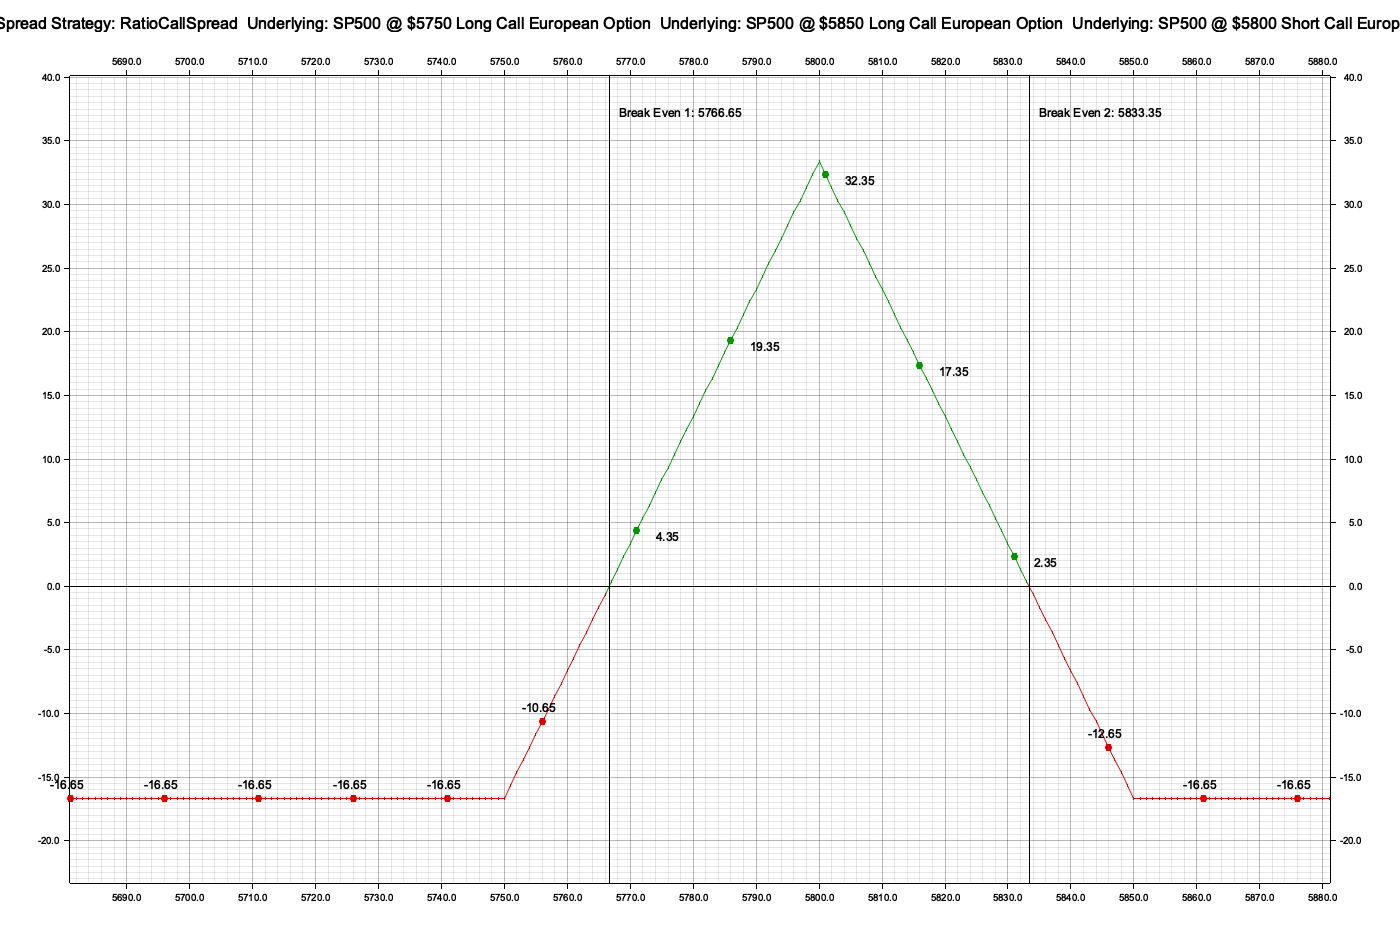
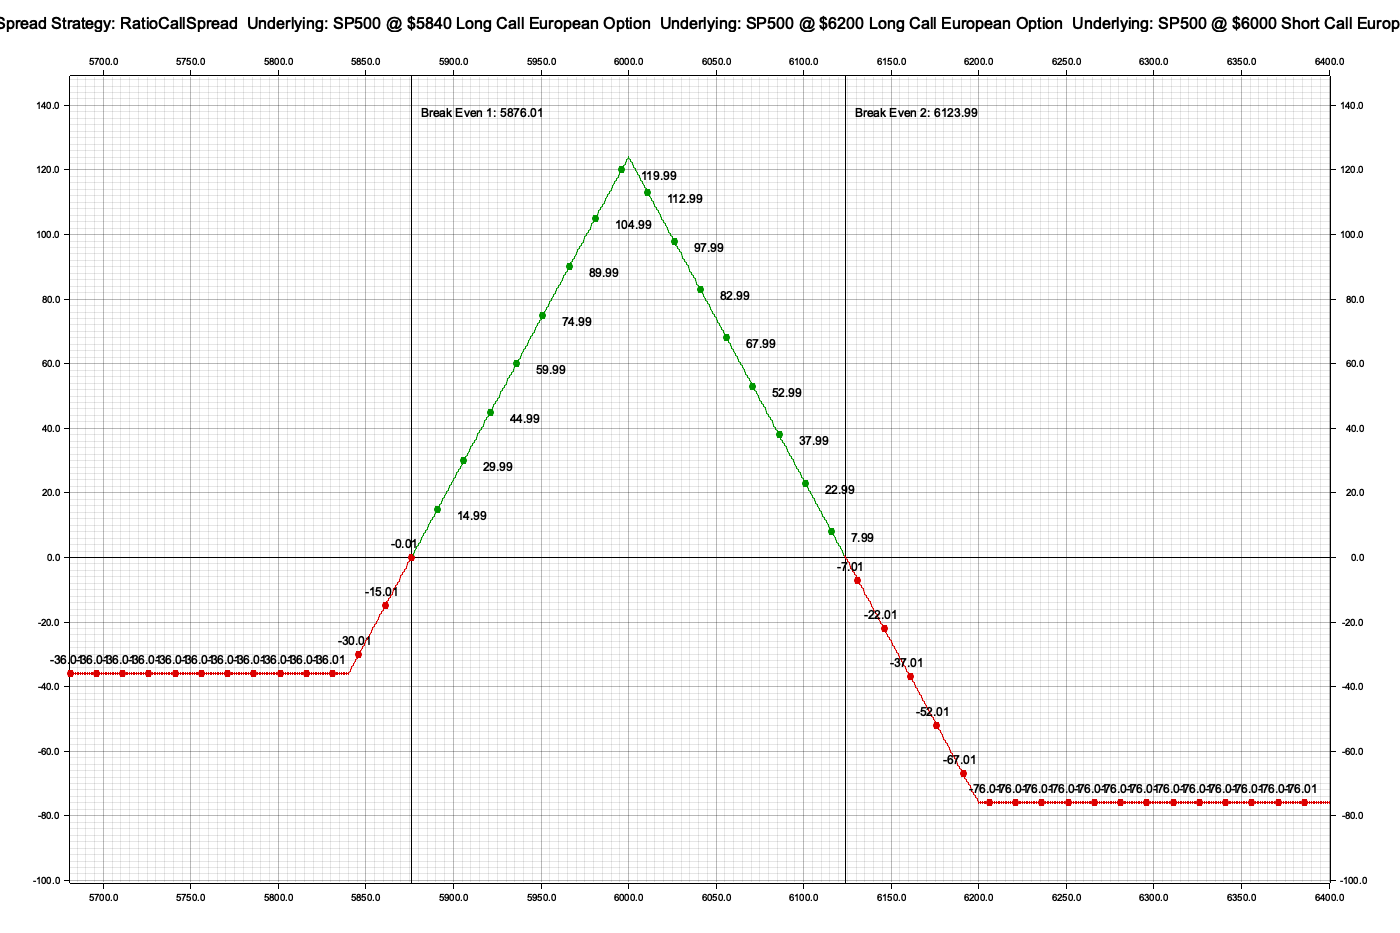
Add examples for optimal ratio and area in ratio call spread
Introduced new examples to find the best ratio and area for ratio call spreads. Added corresponding profit/loss charts for better visualization. This enhances the ability to evaluate strategies effectively.

Changed region(s): [[0.0307, 0.0622, 0.9829, 0.9636], [0.5836, 0.0, 0.6143, 0.0311]]

diff --git a/examples/strategy_ratio_call_spread_best_ratio.rs b/examples/strategy_ratio_call_spread_best_ratio.rs
@@ -1,0 +1,73 @@
+/******************************************************************************
+   Author: Joaquín Béjar García
+   Email: jb@taunais.com
+   Date: 25/9/24
+******************************************************************************/
+use optionstratlib::constants::ZERO;
+use optionstratlib::model::chain::OptionChain;
+use optionstratlib::model::types::ExpirationDate;
+use optionstratlib::strategies::base::Strategies;
+use optionstratlib::strategies::ratio_call_spread::RatioCallSpread;
+use optionstratlib::strategies::utils::FindOptimalSide;
+use optionstratlib::utils::logger::setup_logger;
+use optionstratlib::visualization::utils::Graph;
+use std::error::Error;
+use tracing::{debug, info};
+
+fn main() -> Result<(), Box<dyn Error>> {
+    setup_logger();
+    let option_chain =
+        OptionChain::load_from_json("./examples/Chains/SP500-18-oct-2024-5781.88.json")?;
+    let underlying_price = option_chain.underlying_price;
+    let mut strategy = RatioCallSpread::new(
+        "".to_string(),
+        underlying_price, // underlying_price
+        ZERO,             // long_strike_itm
+        ZERO,             // long_strike_otm
+        ZERO,             // short_strike
+        ExpirationDate::Days(2.0),
+        ZERO, // implied_volatility
+        0.05, // risk_free_rate
+        ZERO, // dividend_yield
+        1,    // long quantity
+        2,    // short_quantity
+        ZERO, // premium_long_itm
+        ZERO, // premium_long_otm
+        ZERO, // premium_short
+        0.78, // open_fee_long
+        0.78, // close_fee_long
+        0.73, // close_fee_short
+        0.73, // close_fee_short
+    );
+
+    strategy.best_ratio(&option_chain, FindOptimalSide::Upper);
+    let price_range = strategy.best_range_to_show(1.0).unwrap();
+    let range = strategy.break_even_points[1] - strategy.break_even_points[0];
+    info!("Title: {}", strategy.title());
+    info!("Break Even Points: {:?}", strategy.break_even_points);
+    info!(
+        "Net Premium Received: ${:.2}",
+        strategy.net_premium_received()
+    );
+    info!("Max Profit: ${:.2}", strategy.max_profit());
+    info!("Max Loss: ${:0.2}", strategy.max_loss());
+    info!("Total Fees: ${:.2}", strategy.fees());
+    info!(
+        "Range of Profit: ${:.2} {:.2}%",
+        range,
+        (range / 2.0) / underlying_price * 100.0
+    );
+    info!("Profit Ratio: {:.2}%", strategy.ratio());
+    debug!("Strategy:  {:#?}", strategy);
+
+    strategy.graph(
+        &price_range,
+        "Draws/Strategy/ratio_call_spread_profit_loss_chart_best_ratio.png",
+        20,
+        (1400, 933),
+        (10, 30),
+        15,
+    )?;
+
+    Ok(())
+}

diff --git a/examples/strategy_ratio_call_spread_best_area.rs b/examples/strategy_ratio_call_spread_best_area.rs
@@ -1,0 +1,73 @@
+/******************************************************************************
+   Author: Joaquín Béjar García
+   Email: jb@taunais.com
+   Date: 25/9/24
+******************************************************************************/
+use optionstratlib::constants::ZERO;
+use optionstratlib::model::chain::OptionChain;
+use optionstratlib::model::types::ExpirationDate;
+use optionstratlib::strategies::base::Strategies;
+use optionstratlib::strategies::ratio_call_spread::RatioCallSpread;
+use optionstratlib::strategies::utils::FindOptimalSide;
+use optionstratlib::utils::logger::setup_logger;
+use optionstratlib::visualization::utils::Graph;
+use std::error::Error;
+use tracing::{debug, info};
+
+fn main() -> Result<(), Box<dyn Error>> {
+    setup_logger();
+    let option_chain =
+        OptionChain::load_from_json("./examples/Chains/SP500-18-oct-2024-5781.88.json")?;
+    let underlying_price = option_chain.underlying_price;
+    let mut strategy = RatioCallSpread::new(
+        "".to_string(),
+        underlying_price, // underlying_price
+        ZERO,             // long_strike_itm
+        ZERO,             // long_strike_otm
+        ZERO,             // short_strike
+        ExpirationDate::Days(2.0),
+        ZERO, // implied_volatility
+        0.05, // risk_free_rate
+        ZERO, // dividend_yield
+        1,    // long quantity
+        2,    // short_quantity
+        ZERO, // premium_long_itm
+        ZERO, // premium_long_otm
+        ZERO, // premium_short
+        0.78, // open_fee_long
+        0.78, // close_fee_long
+        0.73, // close_fee_short
+        0.73, // close_fee_short
+    );
+
+    strategy.best_area(&option_chain, FindOptimalSide::Upper);
+    let price_range = strategy.best_range_to_show(1.0).unwrap();
+    let range = strategy.break_even_points[1] - strategy.break_even_points[0];
+    info!("Title: {}", strategy.title());
+    info!("Break Even Points: {:?}", strategy.break_even_points);
+    info!(
+        "Net Premium Received: ${:.2}",
+        strategy.net_premium_received()
+    );
+    info!("Max Profit: ${:.2}", strategy.max_profit());
+    info!("Max Loss: ${:0.2}", strategy.max_loss());
+    info!("Total Fees: ${:.2}", strategy.fees());
+    info!(
+        "Range of Profit: ${:.2} {:.2}%",
+        range,
+        (range / 2.0) / underlying_price * 100.0
+    );
+    info!("Profit Area: {:.2}%", strategy.area());
+    debug!("Strategy:  {:#?}", strategy);
+
+    strategy.graph(
+        &price_range,
+        "Draws/Strategy/ratio_call_spread_profit_loss_chart_best_area.png",
+        20,
+        (1400, 933),
+        (10, 30),
+        15,
+    )?;
+
+    Ok(())
+}
